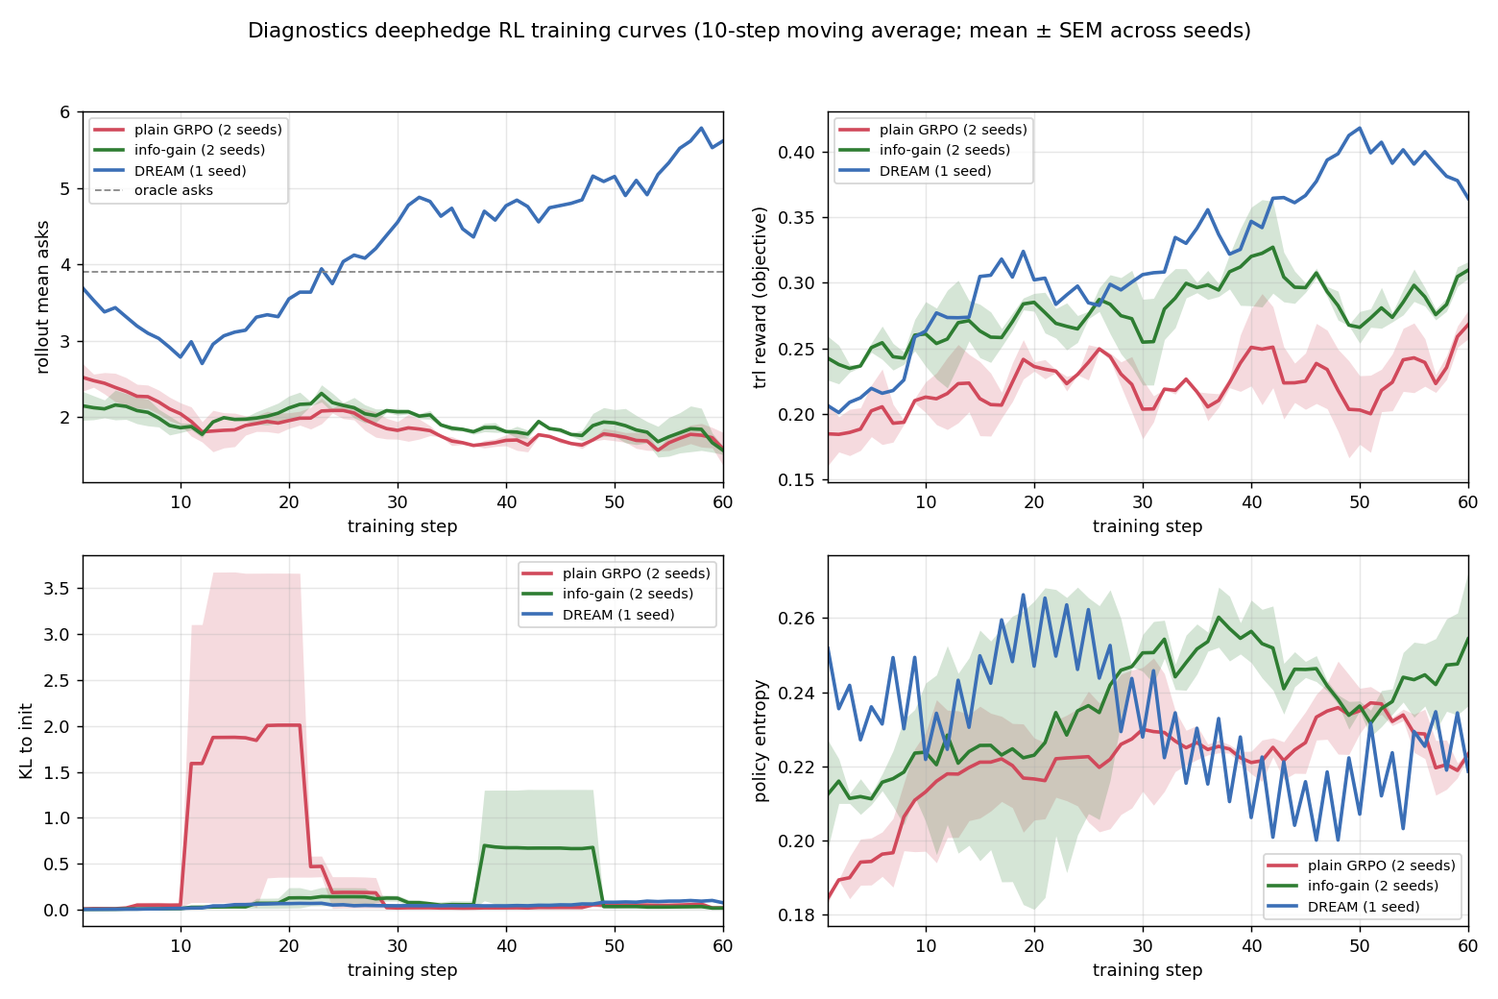
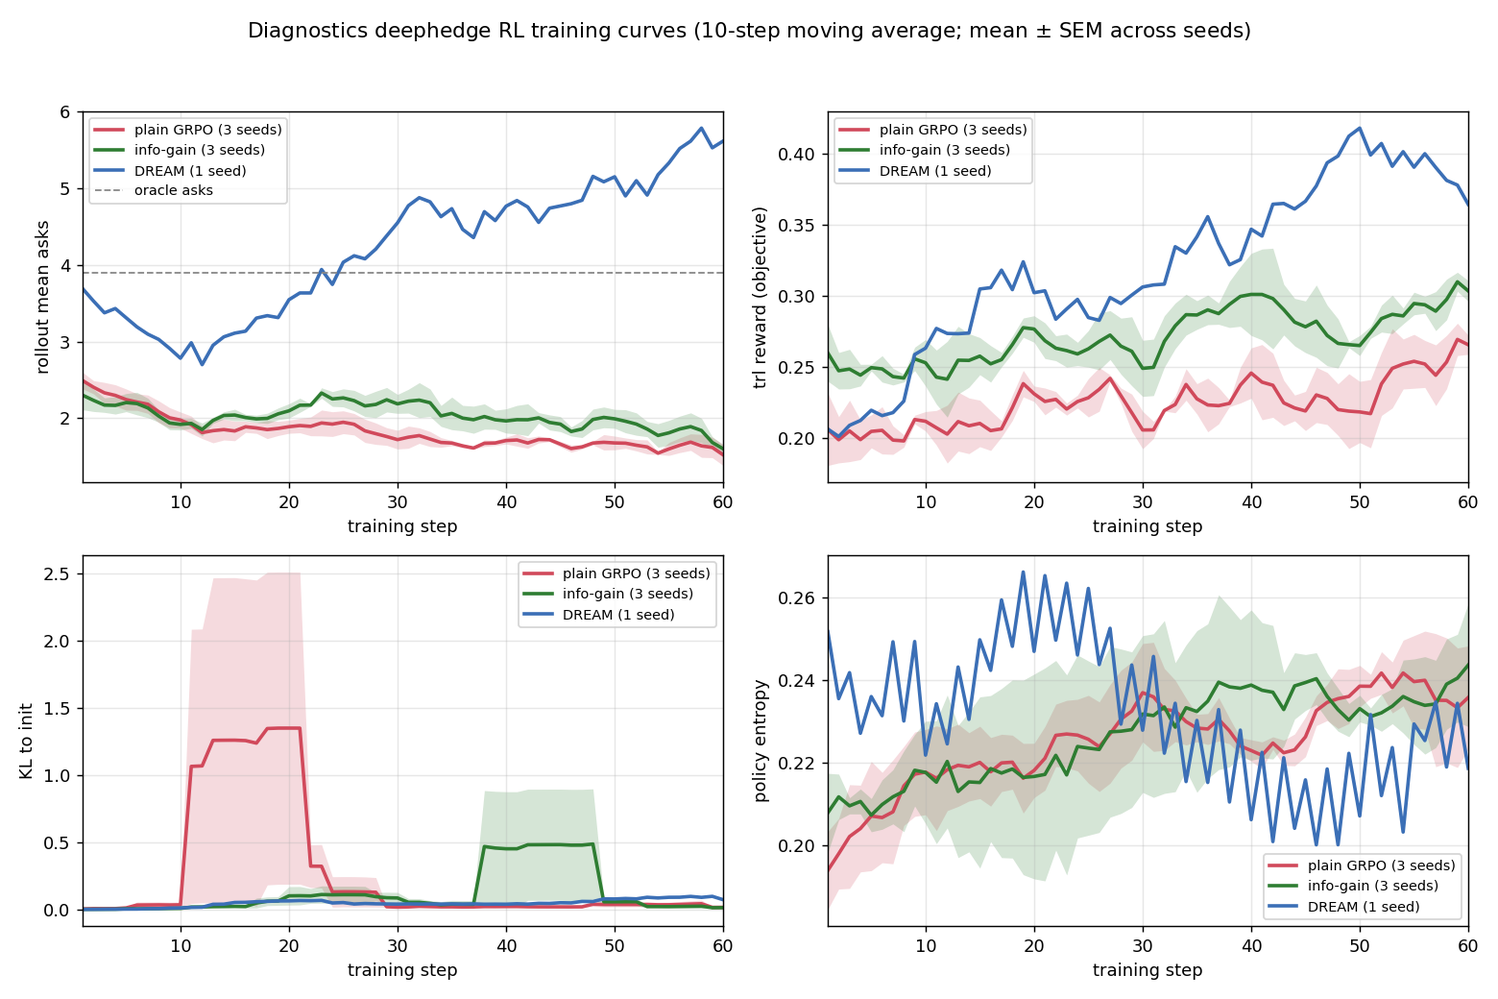
Paper: rename methods/task to descriptive names + fold in 3-seed diagnostics variability
info-gain/InfoGain -> credit-assignment GRPO (defined; 'information gain' kept only as mechanism/entropy language). DREAM/DREAM-style -> decoupled exploration-exploitation GRPO (short: decoupled GRPO), DREAM citation kept + 'not implementing DREAM exactly' note. deephedge -> diagnostic hedging task. Updated titles/tables/captions/prose. tab:master diagnostics plain & credit-assignment GRPO now 3-seed mean+/-std; rl_curves_seeds.png regenerated at 3 seeds.

diff --git a/paper/main.tex b/paper/main.tex
@@ -45,8 +45,8 @@ the optimal behavior?) --- are \emph{necessary but not sufficient}. Even when bo
 gates pass, plain Group Relative Policy Optimization (GRPO) trained on the outcome
 reward learns \emph{unsafe shortcut policies}: one-question collapse,
 under-gathering, and defensive hedging that raise mean reward while
-\emph{regressing} performance on the rare, safety-critical high-risk cases. An
-information-gain credit-assignment reward --- dense credit for asks that reduce
+\emph{regressing} performance on the rare, safety-critical high-risk cases. A
+\emph{credit-assignment} reward --- dense credit for asks that reduce
 uncertainty about the latent state, applied only in the RL rollout so the gates
 stay pure --- recovers safer high-risk behavior and is \emph{thesis-positive} on
 diagnostics, and a decoupled explore/exploit variant pushes high-risk
@@ -105,8 +105,7 @@ beat the best fixed policy?) and a \emph{latent-support} gate (can the
 initialization policy even sample the optimal behavior?). (2) Across three
 structurally distinct medical tasks we show these gates are \emph{necessary but
 not sufficient}: passing them does not earn an RL win, because plain GRPO finds
-the unsafe shortcuts above. We show that an explicit \emph{information-gain
-credit-assignment} reward is the missing ingredient that converts a gates-passing
+the unsafe shortcuts above. We show that an explicit \emph{credit-assignment} reward is the missing ingredient that converts a gates-passing
 task from exploited to safely adaptive, that a decoupled explore/exploit scheme
 further improves the safety-critical subset, and that the credit coefficient is a
 task-specific dial with a narrow safe optimum. (3) We add a small SFT-vs-RL bridge
@@ -240,7 +239,7 @@ controlled RL testbeds, \emph{not} clinically validated data.
 \centering
 \caption{Per-task environment dimensions. ``Findings'' is the binary
 decision-feature vocabulary; ``actions'' is the terminal commit set (titration's
-are ordered). Diagnostics is the co-designed deephedge variant. All use per-ask
+are ordered). Diagnostics is the co-designed diagnostic hedging task. All use per-ask
 cost $0.03$ and oracle-grade tolerance $0.03$.}
 \label{tab:envs}
 \begin{tabular}{lccccc}
@@ -248,7 +247,7 @@ cost $0.03$ and oracle-grade tolerance $0.03$.}
 Task & Findings & Commit actions & Families & Latent state & Turn cap \\
 \midrule
 Refill triage & 12 & 5 & 2 (ACEi/ARB, NSAID) & severity (none/mod/high) & 10 \\
-Diagnostics (deephedge) & 18 & 5 & 2 (chest, abdominal) & severity (none/mod/high) & 12 \\
+Diagnostics (hedging) & 18 & 5 & 2 (chest, abdominal) & severity (none/mod/high) & 12 \\
 Titration & 6 & 3 (ordered) & 1 (anticoag) & joint clot$\times$bleed (9 states) & 10 \\
 \bottomrule
 \end{tabular}
@@ -295,12 +294,15 @@ one of several verdicts --- \textsc{thesis-positive}, \textsc{exploit}
 (ask-collapse or high-risk regression), or \textsc{termination-only} (reward rose
 only by learning to commit, not by gathering better).
 
-\subsection{Information-gain credit assignment}
+\subsection{Credit-assignment GRPO}
 The shortcut problem is one of credit assignment: the terminal reward does not
 tell the policy \emph{which ask} produced a good commit, so the cheapest way to
-raise reward is to stop asking. We address it directly with a dense
-\emph{information-gain} reward --- an intrinsic reward for uncertainty reduction,
-in the spirit of potential-based reward shaping \citep{ng1999shaping}: each new,
+raise reward is to stop asking. We introduce \emph{credit-assignment GRPO}, a GRPO
+variant that assigns dense credit to questions by how much they reduce uncertainty
+about the latent clinical state. Concretely, we add a dense reward --- an intrinsic
+reward for uncertainty reduction, computed from the same information gain the gates
+use and applied in the spirit of potential-based reward shaping
+\citep{ng1999shaping}: each new,
 decision-relevant ask is rewarded in proportion to the entropy reduction of the
 posterior over the latent state,
 $\Phi = -\,\Delta H\big(p(\mu \mid \text{revealed})\big)$, summed over the asks and
@@ -314,10 +316,12 @@ policy and a single episode; it densifies the gathering signal but does
 \emph{not} separate exploration from exploitation. The decoupled variant below
 does.
 
-\subsection{DREAM-style decoupled exploration and exploitation}
-The information-gain reward shares one policy and one trajectory across asking and
+\subsection{Decoupled exploration-exploitation GRPO}
+The credit-assignment reward shares one policy and one trajectory across asking and
 committing, so the two still compete for the same gradient. The DREAM line of
-meta-RL \citep{liu2021dream} decouples them; we adapt that idea with a
+meta-RL \citep{liu2021dream} decouples them; we adapt that idea --- without
+implementing DREAM exactly --- as \emph{decoupled exploration-exploitation GRPO},
+which separates the gathering phase from the committing phase while using a
 \emph{single network and adapter} (no learned decoder, no second policy) and a
 mode token: an \emph{explore} phase that may only ask, rewarded by recoverability
 of $\mu$ (the information-gain signal), and an \emph{exploit} phase that commits
@@ -341,7 +345,7 @@ initialization strength (Section~\ref{subsec:bridge-result}). Second, on
 diagnostics we construct a \emph{coverage-biased} SFT --- oracle-adaptive
 trajectories with high-risk cases under-sampled --- to test directly whether RL
 repairs a high-risk coverage gap; we re-measure Gate~2 on the biased SFT to predict
-repairability, and run both the information-gain and DREAM rewards from it
+repairability, and run both the credit-assignment and decoupled-GRPO rewards from it
 (Section~\ref{subsec:coverage}). The biased SFT is trained with the same generic
 warmup as refill triage; an SFT-dose/saturation sweep and the full
 coverage$\times$demonstrability matrix remain future work
@@ -365,7 +369,7 @@ We study three tasks under the identical gate-and-guard framework: \textbf{refil
 triage} (approve / modify / escalate), \textbf{acute diagnostics} (order findings,
 then commit one of a five-way disposition), and \textbf{titration} (gather risk
 factors, then choose an ordered treatment intensity). Diagnostics is a co-designed
-``deephedge'' variant: a fixed checklist must over-order while the oracle walks one
+diagnostic hedging task: a fixed checklist must over-order while the oracle walks one
 short path, and the high-stakes action requires a multi-finding conjunction (no
 single finding is diagnostic) --- which is what makes it clear both gates while
 still admitting a defensive-hedge shortcut. Table~\ref{tab:master} consolidates the
@@ -380,8 +384,9 @@ high-risk value and high-risk oracle-grade support@12 (the safety-critical
 subset); overall value/support and mean asks are diagnostic. Bold marks the best
 \emph{safe} high-risk outcome per task (support gains over a degenerate one-ask
 policy --- e.g.\ titration plain-GRPO and refill GRPO --- are k-fold sampling
-artifacts flagged \textsc{exploit} by the guard, not adaptive gathering). Single
-seed; no confidence intervals (Section~\ref{sec:discussion}).}
+artifacts flagged \textsc{exploit} by the guard, not adaptive gathering).
+$^\ddagger$Diagnostics plain-GRPO and credit-assignment GRPO are mean$\pm$std over 3 seeds; all
+other rows are single-seed (Section~\ref{sec:discussion}).}
 \label{tab:master}
 \begin{tabular}{llccccc}
 \toprule
@@ -389,20 +394,20 @@ Task & Method & overall val & overall supp & high val & high supp & asks \\
 \midrule
 \multirow{4}{*}{Diagnostics}
  & base                 & $+0.251$ & $0.35$ & $+0.160$ & $0.50$ & $2.5$ \\
- & plain GRPO           & $+0.255$ & $0.37$ & $+0.095$ & $0.50$ & $1.9$ \\
- & info-gain            & $+0.334$ & $0.65$ & $+0.139$ & $0.50$ & $2.2$ \\
- & DREAM                & $+0.329$ & $0.42$ & $\mathbf{+0.248}$ & $\mathbf{1.00}$ & $4.4$ \\
+ & plain GRPO$^\ddagger$ & $+0.285$\scriptsize$\pm.027$ & $0.41$\scriptsize$\pm.11$ & $+0.098$\scriptsize$\pm.037$ & $0.33$\scriptsize$\pm.29$ & $1.8$\scriptsize$\pm.1$ \\
+ & credit-assignment GRPO$^\ddagger$  & $+0.313$\scriptsize$\pm.024$ & $0.59$\scriptsize$\pm.05$ & $+0.157$\scriptsize$\pm.057$ & $\mathbf{0.50}$\scriptsize$\pm.00$ & $2.1$\scriptsize$\pm.3$ \\
+ & decoupled GRPO                & $+0.329$ & $0.42$ & $\mathbf{+0.248}$ & $\mathbf{1.00}$ & $4.4$ \\
 \midrule
 \multirow{3}{*}{Titration}
  & base                 & $-0.022$ & $0.52$ & $+0.396$ & $0.67$ & $2.8$ \\
  & plain GRPO           & $-0.012$ & $0.57$ & $+0.627$ & $1.00^\dagger$ & $1.4$ \\
- & info-gain ($\lambda{=}0.1$) & $-0.036$ & $0.52$ & $\mathbf{+0.556}$ & $\mathbf{1.00}$ & $2.7$ \\
+ & credit-assignment GRPO ($\lambda{=}0.1$) & $-0.036$ & $0.52$ & $\mathbf{+0.556}$ & $\mathbf{1.00}$ & $2.7$ \\
 \midrule
 \multirow{4}{*}{Refill triage}
  & base                 & $+0.386$ & $0.58$ & $+0.151$ & $0.00$ & $2.2$ \\
  & SFT warmup           & $+0.318$ & $0.97$ & $\mathbf{+0.195}$ & $1.00$ & $2.8$ \\
  & plain GRPO           & $+0.431$ & $0.97$ & $+0.032$ & $1.00^\dagger$ & $1.3$ \\
- & info-gain            & $+0.415$ & $0.93$ & $+0.043$ & $1.00^\dagger$ & $1.6$ \\
+ & credit-assignment GRPO            & $+0.415$ & $0.93$ & $+0.043$ & $1.00^\dagger$ & $1.6$ \\
 \bottomrule
 \end{tabular}
 
@@ -426,7 +431,7 @@ the unsafe shortcut} --- the central negative result, and the reason a safety-bl
 RLVR pipeline is risky.
 
 \subsection{Information-gain credit assignment recovers safe high-risk behavior}
-Adding the information-gain reward ($\lambda{=}0.2$), with the gates and $U$
+Adding the credit-assignment reward ($\lambda{=}0.2$), with the gates and $U$
 unchanged, flips diagnostics to \textsc{thesis-positive} (Table~\ref{tab:dx},
 Figure~\ref{fig:dx4arm}). Held-out clinical value rises ($+0.255 \to +0.334$),
 high-risk oracle-grade support is held at $0.50$ and high-risk reward at
@@ -440,8 +445,8 @@ ingredient that turns a gates-passing task from exploited to safely adaptive.
 \begin{table}[ht]
 \centering
 \caption{Diagnostics, held-out hidden condition, pure verifiable reward. Plain GRPO
-exploits (high-risk regression / defensive hedge); the information-gain reward is
-thesis-positive; DREAM trades further high-risk gains for low-acuity
+exploits (high-risk regression / defensive hedge); the credit-assignment reward is
+thesis-positive; decoupled GRPO trades further high-risk gains for low-acuity
 over-gathering. ``supp'' is oracle-grade support@12.}
 \label{tab:dx}
 \begin{tabular}{lccccc}
@@ -450,8 +455,8 @@ Policy & overall value & high value & high supp & moderate supp & mean asks \\
 \midrule
 base (untrained)                & $+0.251$ & $+0.160$ & $0.50$ & $0.26$ & $2.5$ \\
 plain GRPO (control)            & $+0.255$ & $+0.095$ & $0.50$ & $0.34$ & $1.9$ \\
-\,+ info-gain ($\lambda{=}0.2$) & $\mathbf{+0.334}$ & $+0.139$ & $0.50$ & $\mathbf{0.77}$ & $2.2$ \\
-DREAM (best ckpt)               & $+0.329$ & $\mathbf{+0.248}$ & $\mathbf{1.00}$ & $0.63$ & $4.4$ \\
+\,+ credit-assignment ($\lambda{=}0.2$) & $\mathbf{+0.334}$ & $+0.139$ & $0.50$ & $\mathbf{0.77}$ & $2.2$ \\
+decoupled GRPO (best ckpt)               & $+0.329$ & $\mathbf{+0.248}$ & $\mathbf{1.00}$ & $0.63$ & $4.4$ \\
 \bottomrule
 \end{tabular}
 \end{table}
@@ -460,8 +465,8 @@ DREAM (best ckpt)               & $+0.329$ & $\mathbf{+0.248}$ & $\mathbf{1.00}$
 \centering
 \includegraphics[width=\textwidth]{figs/dream_diagnostics_4arm.png}
 \caption{Diagnostics by risk subset (held-out hidden, pure reward): base vs.\
-plain-GRPO vs.\ info-gain vs.\ DREAM. Plain GRPO trims asks and regresses high-risk;
-info-gain restores gathering and lifts the moderate subset; DREAM maximizes
+plain-GRPO vs.\ credit-assignment GRPO vs.\ decoupled GRPO. Plain GRPO trims asks and regresses high-risk;
+credit-assignment GRPO restores gathering and lifts the moderate subset; decoupled GRPO maximizes
 high-risk oracle-grade support but over-gathers on low-acuity cases.}
 \label{fig:dx4arm}
 \end{figure}
@@ -475,16 +480,16 @@ safety-critical high-risk subset improves markedly --- reward $+0.139 \to +0.248
 and oracle-grade support $0.50 \to 1.00$ at the best checkpoint
 (Figure~\ref{fig:dreamtraj}) --- while still clearing all guards. The trade is that
 the unconstrained explorer over-gathers on \emph{low-acuity} cases (benign support
-$0.48 \to 0.04$) and overall value dips slightly below the info-gain policy. DREAM
+$0.48 \to 0.04$) and overall value dips slightly below the credit-assignment-GRPO policy. decoupled GRPO
 thus delivers a favorable \emph{safety} trade rather than a strict domination: it
 helps where gathering is decision-relevant and over-explores where it is not.
 
 \begin{figure}[ht]
 \centering
 \includegraphics[width=0.92\textwidth]{figs/dream_diagnostics_trajectory.png}
-\caption{DREAM checkpoint trajectory on diagnostics (held-out hidden, pure reward).
+\caption{decoupled-GRPO checkpoint trajectory on diagnostics (held-out hidden, pure reward).
 High-risk oracle-grade support and reward peak at checkpoint-40 (support $1.00$,
-reward $+0.248$), above the information-gain reference, as mean asks rise toward
+reward $+0.248$), above the credit-assignment-GRPO reference, as mean asks rise toward
 and past the oracle's $\approx 3.9$.}
 \label{fig:dreamtraj}
 \end{figure}
@@ -548,9 +553,9 @@ Policy & overall value & overall asks & one-ask rate & high-clot value & high-cl
 \midrule
 base (untrained)                 & $-0.022$ & $2.76$ & $0.74$ & $+0.396$ & $0.67$ \\
 plain GRPO (control)             & $-0.012$ & $1.40$ & $0.91$ & $+0.627$ & $1.00$ \\
-\,+ info-gain ($\lambda{=}0.03$) & $-0.010$ & $1.24$ & $0.93$ & $+0.825$ & $1.00$ \\
-\,+ info-gain ($\lambda{=}0.1$)  & $-0.036$ & $2.67$ & $0.62$ & $+0.556$ & $1.00$ \\
-\,+ info-gain ($\lambda{=}0.2$)  & $-0.091$ & $4.10$ & $0.31$ & $+0.446$ & $0.67$ \\
+\,+ credit-assignment ($\lambda{=}0.03$) & $-0.010$ & $1.24$ & $0.93$ & $+0.825$ & $1.00$ \\
+\,+ credit-assignment ($\lambda{=}0.1$)  & $-0.036$ & $2.67$ & $0.62$ & $+0.556$ & $1.00$ \\
+\,+ credit-assignment ($\lambda{=}0.2$)  & $-0.091$ & $4.10$ & $0.31$ & $+0.446$ & $0.67$ \\
 \bottomrule
 \end{tabular}
 \end{table}
@@ -570,7 +575,7 @@ operating point. Held-out hidden, pure env.score.}
 \label{subsec:bridge-result}
 Refill triage is the one task whose RL starts not from base but from a \emph{light}
 SFT warmup (the protocol-teaching gatherer of a prior multi-turn study, not a heavy
-task-specific SFT). There, info-gain beats the plain-GRPO control at every
+task-specific SFT). There, credit-assignment GRPO beats the plain-GRPO control at every
 checkpoint (more asks, fewer one-ask shortcuts), and at the comparable early
 checkpoint it \emph{preserves} high-risk reward at the warmup level ($+0.205$) where
 the control has already crashed it ($-0.007$) --- but the benefit is transient and
@@ -604,9 +609,9 @@ to reinforce. A milder bias (keep $30\%$) retains a $21\%$ \texttt{emergent\_tx}
 sample rate --- Gate~2 passes --- so we run RL from it. Yet \emph{even with Gate~2
 satisfied, RL does not repair the hole} (Table~\ref{tab:repair},
 Figures~\ref{fig:reptraj}). The two variants fail in \emph{opposite} directions:
-information-gain GRPO \textsc{exploits} --- it trims gathering ($3.0\to2.2$ asks)
+credit-assignment GRPO \textsc{exploits} --- it trims gathering ($3.0\to2.2$ asks)
 and the high-risk oracle-grade support collapses ($1.00\to0.14$) into a defensive
-hedge; DREAM \emph{over}-gathers ($3.0\to4.3$ asks, benign included), which damages
+hedge; decoupled GRPO \emph{over}-gathers ($3.0\to4.3$ asks, benign included), which damages
 low-acuity cases (benign support $0.92\to0.16$) without restoring high-risk
 support ($\to0.36$) and in fact lowers the \texttt{emergent\_tx} rate below the
 SFT's. Both crash the SFT's strong overall support ($0.93\to0.41$). The pattern is
@@ -621,8 +626,8 @@ geometry determine whether RL repairs or merely re-shortcuts.
 \centering
 \caption{SFT-coverage repair on diagnostics (held-out hidden, $n{=}200$, pure
 verifiable reward). From a coverage-biased SFT that under-samples high-risk cases,
-neither RL variant repairs the high-risk hole: info-gain collapses gathering (and
-high-risk support) into a hedge; DREAM over-gathers and damages benign/moderate.
+neither RL variant repairs the high-risk hole: credit-assignment GRPO collapses gathering (and
+high-risk support) into a hedge; decoupled GRPO over-gathers and damages benign/moderate.
 ``supp'' is oracle-grade support@12.}
 \label{tab:repair}
 \begin{tabular}{lcccccc}
@@ -630,8 +635,8 @@ high-risk support) into a hedge; DREAM over-gathers and damages benign/moderate.
 Policy & overall val & overall supp & high val & high supp & benign supp & mean asks \\
 \midrule
 biased SFT (init)     & $+0.337$ & $\mathbf{0.93}$ & $-0.285$ & $\mathbf{1.00}$ & $\mathbf{0.92}$ & $3.0$ \\
-\,+ info-gain GRPO    & $+0.236$ & $0.45$ & $+0.092$ & $0.14$ & $0.45$ & $2.2$ \\
-\,+ DREAM             & $+0.292$ & $0.41$ & $+0.040$ & $0.36$ & $0.16$ & $4.3$ \\
+\,+ credit-assignment GRPO    & $+0.236$ & $0.45$ & $+0.092$ & $0.14$ & $0.45$ & $2.2$ \\
+\,+ decoupled GRPO             & $+0.292$ & $0.41$ & $+0.040$ & $0.36$ & $0.16$ & $4.3$ \\
 \bottomrule
 \end{tabular}
 \end{table}
@@ -640,7 +645,7 @@ biased SFT (init)     & $+0.337$ & $\mathbf{0.93}$ & $-0.285$ & $\mathbf{1.00}$ 
 \centering
 \includegraphics[width=\textwidth]{figs/repair_trajectory.png}
 \caption{Repairing a biased SFT's high-risk hole fails for both RL variants. From
-the biased SFT (step 0), info-gain trims asks down (under-gather) while DREAM
+the biased SFT (step 0), credit-assignment GRPO trims asks down (under-gather) while decoupled GRPO
 pushes them up past the oracle (over-gather) --- opposite failures --- and both
 erode the SFT's overall support; high-risk value rises only marginally.}
 \label{fig:reptraj}
@@ -666,8 +671,7 @@ post-training clinical gathering agents (Table~\ref{tab:guide}). The gates are
 valuable as a \emph{negative} screen --- they predict where RL cannot help (no
 BC-gap, or no latent support) so compute is not wasted --- but passing them does
 not earn a win: with the plain outcome reward, GRPO learns unsafe shortcuts. The
-controllable factor is \emph{reward geometry}. An information-gain
-credit-assignment reward, applied purely in the RL rollout, restores safe adaptive
+controllable factor is \emph{reward geometry}. A credit-assignment reward, applied purely in the RL rollout, restores safe adaptive
 gathering where headroom exists; decoupling exploration from exploitation buys a
 further high-risk-safety improvement at an over-gathering cost; and the credit
 coefficient is a task-specific dial with a narrow safe optimum. The SFT-vs-RL
@@ -687,8 +691,8 @@ Situation & Guidance & Evidence \\
 Demonstrability gate fails (a fixed action is near-optimal) & Do not run RL & analytic (have) \\
 Latent-support gate fails (init cannot sample the optimum) & SFT/warm up first; RL has no signal & have (severe-biased SFT) \\
 Gates pass, naive outcome reward & Expect unsafe shortcuts (1-ask, hedge, high-risk regression) & have (controls) \\
-Gates pass, info-gain credit assignment, tuned coefficient & Safe adaptive gathering; calibrate $\lambda$ per task & have (diagnostics, titration) \\
-High-risk safety is the priority & Decouple explore/exploit; accept some over-gathering & have (DREAM) \\
+Gates pass, credit-assignment GRPO, tuned coefficient & Safe adaptive gathering; calibrate $\lambda$ per task & have (diagnostics, titration) \\
+High-risk safety is the priority & Decouple explore/exploit; accept some over-gathering & have (decoupled GRPO) \\
 Task barely clears the demonstrability gate (small BC-gap) & Even calibrated RL yields little value gain & have (titration) \\
 Strong/saturated SFT initialization & RL adds little --- no headroom to capture & have (refill triage) \\
 Biased/incomplete SFT, Gate~2 passes & RL still may \emph{not} repair the hole --- it re-shortcuts from a strong init; do not assume repair & have (diagnostics coverage) \\
@@ -783,7 +787,7 @@ reward-geometry-aware foundation established here.
 \centering
 \includegraphics[width=\textwidth]{figs/infogain_rx_base_sft_ctrl_ig.png}
 \caption{Refill triage by risk subset (held-out hidden, pure reward): base /
-SFT-v3 warmup / GRPO-control / GRPO-info-gain (final checkpoints). At the endpoint
+SFT-v3 warmup / GRPO-control / credit-assignment GRPO (final checkpoints). At the endpoint
 both GRPO arms erode high-risk relative to the SFT warmup, which already saturates
 it.}
 \label{fig:rx4arm}
@@ -792,7 +796,7 @@ it.}
 \begin{figure}[ht]
 \centering
 \includegraphics[width=0.92\textwidth]{figs/infogain_rx_checkpoint_trajectory.png}
-\caption{Refill-triage checkpoint trajectory, GRPO-control vs.\ GRPO-info-gain.
+\caption{Refill-triage checkpoint trajectory, GRPO-control vs.\ credit-assignment GRPO.
 Info-gain preserves high-risk reward at the warmup level at step-20 ($+0.205$)
 while the control has already crashed it ($-0.007$); the benefit is transient as
 both trim gathering with continued training.}
@@ -803,8 +807,8 @@ both trim gathering with continued training.}
 \centering
 \includegraphics[width=\textwidth]{figs/repair_4arm.png}
 \caption{SFT-coverage repair by risk subset (held-out hidden, $n{=}200$): biased
-SFT vs.\ info-gain-repair vs.\ DREAM-repair. Neither RL variant restores high-risk
-oracle-grade support ($1.00\to0.14$ info-gain / $0.36$ DREAM); DREAM additionally
+SFT vs.\ credit-assignment-GRPO repair vs.\ decoupled-GRPO repair. Neither RL variant restores high-risk
+oracle-grade support ($1.00\to0.14$ credit-assignment GRPO / $0.36$ decoupled GRPO); decoupled GRPO additionally
 collapses benign support ($0.92\to0.16$) by over-gathering. Companion to
 Table~\ref{tab:repair} and Figure~\ref{fig:reptraj}.}
 \label{fig:rep4arm}
@@ -844,7 +848,7 @@ Seed / checkpoint & $1$ / \texttt{final} \\
 \begin{table}[ht]
 \centering
 \caption{Reinforcement learning (GRPO) hyperparameters. Information-gain adds the
-potential $\lambda\,\Phi$ to the rollout reward only; DREAM replaces it with
+potential $\lambda\,\Phi$ to the rollout reward only; decoupled GRPO replaces it with
 phase-alternated explore (recoverability) / exploit (\texttt{env.score}) updates.}
 \label{tab:rlhp}
 \begin{tabular}{ll}
@@ -860,7 +864,7 @@ Rollout temperature / max tokens-per-turn & $1.0$ / $128$ \\
 Max completion length / turn cap & $512$ / $10$--$12$ \\
 Importance-sampling correction & off (fully on-policy, ratio $\approx 1$) \\
 EOS token ids / token masking & $\{1,106\}$ / \texttt{env\_mask} (model tokens only) \\
-Reward & $U[\mu][a]-0.03\,n_{\text{asks}}$ ($+\lambda\Phi$ for info-gain) \\
+Reward & $U[\mu][a]-0.03\,n_{\text{asks}}$ ($+\lambda\Phi$ for credit-assignment GRPO) \\
 Info-gain $\lambda$ & $0.2$ (diagnostics/refill); swept $\{0,0.03,0.1,0.2\}$ (titration) \\
 Seed & $1$ \\
 \bottomrule
@@ -871,11 +875,11 @@ Seed & $1$ \\
 \centering
 \includegraphics[width=\textwidth]{figs/training_curves_diagnostics.png}\\[4pt]
 \includegraphics[width=0.5\textwidth]{figs/sft_loss_curve.png}
-\caption{Training diagnostics, from the run logs. Top: diagnostics deephedge GRPO
+\caption{Training diagnostics, from the run logs. Top: diagnostic-hedging-task GRPO
 over $60$ steps --- optimized reward, KL to init, policy entropy, and rollout mean
-asks --- for plain GRPO, info-gain, and DREAM. The mean-asks panel shows the
-behavioral signatures: plain GRPO drifts below the oracle ($\approx3.9$), info-gain
-holds intermediate gathering, DREAM gathers most. Bottom: biased-SFT training loss
+asks --- for plain GRPO, credit-assignment GRPO, and decoupled GRPO. The mean-asks panel shows the
+behavioral signatures: plain GRPO drifts below the oracle ($\approx3.9$), credit-assignment GRPO
+holds intermediate gathering, decoupled GRPO gathers most. Bottom: biased-SFT training loss
 (converges to $\approx0.002$, confirming the warmup is well-fit before RL).}
 \label{fig:traincurves}
 \end{figure}
@@ -888,7 +892,7 @@ its exact oracle trajectory (the simulator's finding answers and the oracle comm
 Findings not asked are never revealed to the policy.
 
 \begin{verbatim}
-DIAGNOSTICS (deephedge) -- true latent: high (emergency); oracle: emergent_tx
+DIAGNOSTICS (hedging task) -- true latent: high (emergency); oracle: emergent_tx
   user:      Presentation: adult with acute chest pain. Chart: no results yet.
   assistant: {"action_type":"ask","intent":"troponin_high"}   user: troponin elevated
   assistant: {"action_type":"ask","intent":"ecg_ischemia"}    user: ECG shows ischemia
